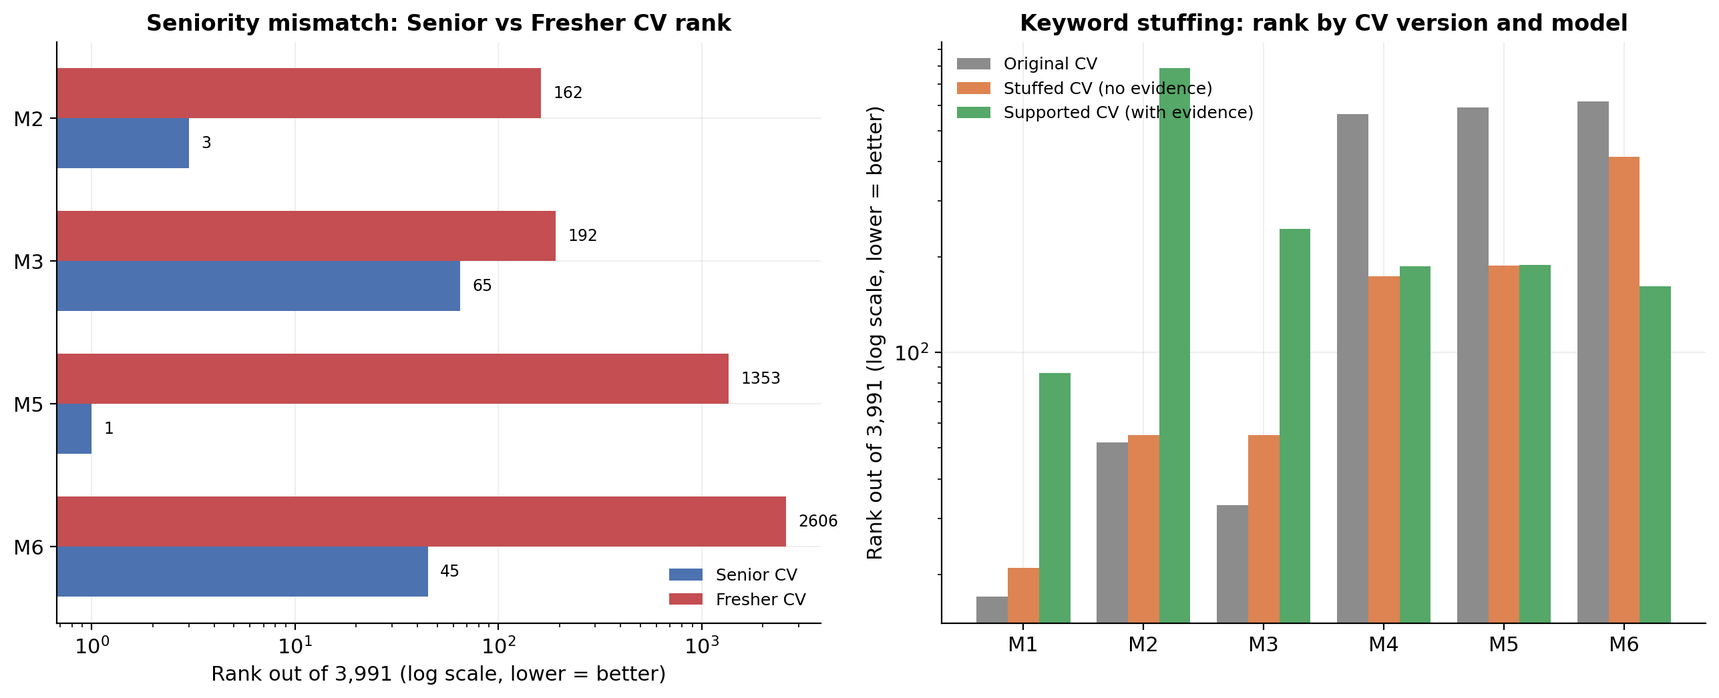
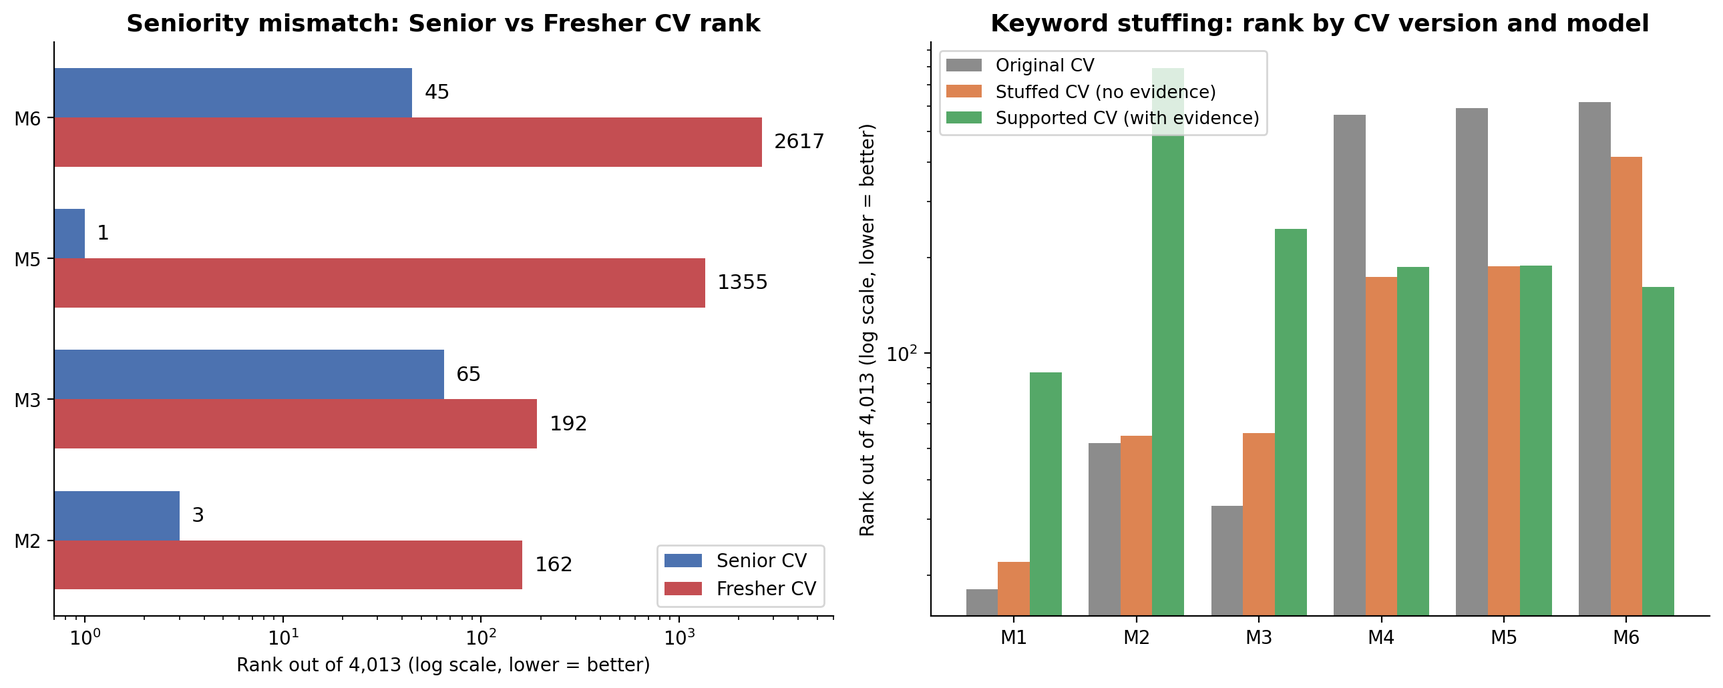
Reconcile inconsistent corpus-size denominators (3986/3991/3995) to 4,013
User flagged that some charts show inconsistent total-CV denominators
(3,986 / 3,991 / 3,995) for what should be comparable rank statistics.
Root cause: the robustness-test and case-study CVs were added to the
live DB incrementally across several sessions, so different rank
computations were snapshotted at different corpus sizes as they were
first run.

Fix: re-ran ranking.rank() for all 4 case studies (seniority JD 56,
stuffing JD 51/EVAL_JD_01, missing-mandatory JD 57, role-confusion
JD 58) against one fixed, common corpus snapshot -- the current full
4,013-CV corpus -- across all methods needed (TF-IDF, SBERT full,
section SBERT, requirement-aware, requirement+seniority, full model).
Updated:

- Table tab:robustness-results and its 3 explanatory paragraphs
  (including the M1/M4 "checked for context" numbers)
- All 4 case-study tables (seniority, stuffing, missing-mandatory,
  role-confusion) and their prose
- Figures 4_3 (robustness rank changes) and 4_7 (case-study
  comparison), regenerated from scratch with the new numbers
- Table dataset-composition's explanatory paragraph, simplified to
  state the single 4,013-CV standard denominator, with the one
  documented exception (threshold-sensitivity's 3,991-CV NDCG/MAP
  snapshot, a separate full-pool metric recomputation left as-is)

New numbers are within 1-11 ranks of the old ones in every case (the
corpus only grew by ~5-27 CVs depending on when each was originally
[…]

diff --git a/thesis report/main.tex b/thesis report/main.tex
@@ -878,7 +878,7 @@ Role-confusion set & Purpose-built synthetic pairs & 3 pairs, 3 JDs (Java, data,
 \end{tabularx}
 \end{table}
 
-Summing every row above (2,986 real $+$ 1,000 synthetic $+$ 27 robustness-battery CVs: 6 seniority, 9 stuffing, 6 missing-mandatory, 6 role-confusion) accounts for all 4,013 CV records held in the running prototype as of the final battery expansion. The ``combined retrieval corpus'' figure of 3,986 used for effectiveness (Table~\ref{tab:ranking-results}) and operational-performance (Table~\ref{tab:performance-results}) measurements deliberately excludes the 27 robustness-battery CVs, since those are purpose-built single-JD/single-pair test fixtures rather than participants in the macro-averaged ranking or latency measurements; \cref{sec:battery} and the threshold-sensitivity discussion (\cref{sec:calibration}) note the further intermediate growth (to 3,991 and then 3,995 CVs) that the robustness-testing snapshots were run against before the battery expansion reached its final 4,013-CV total.
+Summing every row above (2,986 real $+$ 1,000 synthetic $+$ 27 robustness-battery CVs: 6 seniority, 9 stuffing, 6 missing-mandatory, 6 role-confusion) accounts for all 4,013 CV records held in the running prototype as of the final battery expansion. The ``combined retrieval corpus'' figure of 3,986 used for effectiveness (Table~\ref{tab:ranking-results}) and operational-performance (Table~\ref{tab:performance-results}) measurements deliberately excludes the 27 robustness-battery CVs, since those are purpose-built single-JD/single-pair test fixtures rather than participants in the macro-averaged ranking or latency measurements. The rank-based robustness and case-study tables (Tables~\ref{tab:robustness-results}--\ref{tab:role-confusion-case}) were all re-run against the final, complete 4,013-CV corpus for consistency, so their rank denominators agree with each other; the one remaining exception is the threshold-sensitivity table (\cref{sec:calibration}), which re-runs the full 246-pair NDCG/MAP evaluation rather than single-CV ranks and was left at an earlier, smaller 3,991-CV snapshot rather than re-run.
 
 \begin{figure}[htbp]
 \centering
@@ -1246,22 +1246,22 @@ The bootstrap CIs above are computed by resampling the 5 JDs with replacement (t
 \toprule
 Model & Seniority mismatch (Senior rank / Fresher rank) & Rank $\Delta$ after stuffing, no evidence & Rank $\Delta$ after stuffing, with evidence \\
 \midrule
-SBERT full text & 3 / 162 (no hard-gate) & $-3$ (52$\to$55) & $-734$ (52$\to$786) \\
-Section-level SBERT & 65 / 192 (no hard-gate) & $-22$ (33$\to$55) & $-212$ (33$\to$245) \\
-Requirement + seniority & 1 / 1353 (gate: pass / fail) & $+402$ (590$\to$188) & $+401$ (590$\to$189) \\
-Full proposed model & 45 / 2606 (gate: fail / fail) & $+203$ (617$\to$414) & $+455$ (617$\to$162) \\
+SBERT full text & 3 / 162 (no hard-gate) & $-3$ (52$\to$55) & $-739$ (52$\to$791) \\
+Section-level SBERT & 65 / 192 (no hard-gate) & $-23$ (33$\to$56) & $-213$ (33$\to$246) \\
+Requirement + seniority & 1 / 1355 (gate: pass / fail) & $+403$ (591$\to$188) & $+402$ (591$\to$189) \\
+Full proposed model & 45 / 2617 (gate: fail / fail) & $+204$ (619$\to$415) & $+457$ (619$\to$162) \\
 \bottomrule
 \end{tabular}
 \end{adjustbox}
 \end{table}
 
-All five controlled-set categories declared in \cref{sec:robustness-sets} were constructed and run: seniority mismatch (one Senior/Fresher CV pair against \texttt{ROBUSTNESS\_Seniority\_Mismatch\_Senior\_Java\_Developer}, a purpose-built JD requiring 5+ years, senior seniority, and Java/Spring Boot/SQL as hard skills with Docker as soft), keyword stuffing with a matched supported-evidence control (one Original/Stuffed/Supported CV triple against EVAL\_JD\_01, the same 25-requirement Senior Java Developer JD used in Table~\ref{tab:ranking-results}), missing mandatory requirement (one pair against a purpose-built Python backend JD, Table~\ref{tab:missing-mandatory-case}), and role confusion (one genuine-developer/confused-project-manager pair against a purpose-built Java backend JD, Table~\ref{tab:role-confusion-case}). This table reports the first two; the latter two are reported as separate case-study tables below since their natural unit is a rank pair per candidate rather than a rank-change column. Ranks in this table are out of the full 3,991-CV combined corpus (3,986 plus the 5 seniority/stuffing test CVs); rank $\Delta$ is Original rank minus the modified-CV rank, so a positive value means the modification moved the CV toward rank 1.
+All five controlled-set categories declared in \cref{sec:robustness-sets} were constructed and run: seniority mismatch (one Senior/Fresher CV pair against \texttt{ROBUSTNESS\_Seniority\_Mismatch\_Senior\_Java\_Developer}, a purpose-built JD requiring 5+ years, senior seniority, and Java/Spring Boot/SQL as hard skills with Docker as soft), keyword stuffing with a matched supported-evidence control (one Original/Stuffed/Supported CV triple against EVAL\_JD\_01, the same 25-requirement Senior Java Developer JD used in Table~\ref{tab:ranking-results}), missing mandatory requirement (one pair against a purpose-built Python backend JD, Table~\ref{tab:missing-mandatory-case}), and role confusion (one genuine-developer/confused-project-manager pair against a purpose-built Java backend JD, Table~\ref{tab:role-confusion-case}). This table reports the first two; the latter two are reported as separate case-study tables below since their natural unit is a rank pair per candidate rather than a rank-change column. This table and the four case-study tables below were all re-run against one common, fixed snapshot -- the full, final 4,013-CV corpus (\cref{sec:battery}) -- so every rank denominator in this table and the next four is directly comparable rather than reflecting whatever intermediate corpus size happened to exist when each was first computed. (The threshold-sensitivity analysis in \cref{sec:calibration} is the one exception: it re-runs the full 246-pair NDCG/MAP evaluation rather than a handful of single-CV ranks, so it was left at its own already-documented 3,991-CV snapshot rather than re-run.) Rank $\Delta$ is Original rank minus the modified-CV rank, so a positive value means the modification moved the CV toward rank 1.
 
 Because each category is a single constructed instance rather than a labeled sample, the pre-registered ``@10 rate'' columns could not be computed as originally specified (a rate needs many independent pairs; here $n=1$ per model); the table instead reports the actual measured outcome for the one instance built per category, and this adaptation -- not a change in what was tested -- is stated explicitly here rather than silently reinterpreting the pre-declared design. For the same reason, and because $n=1$, none of these numbers should be read as a stable rate: they characterize the mechanism on one constructed case each, consistent with how \cref{sec:discussion} already treats synthetic controlled cases as evidence of mechanism behavior rather than operational performance.
 
 For the seniority-mismatch column, ``gate'' refers to $H_{\mathrm{pass}}$ (\cref{eq:ranking-key}): the requirement+seniority model (M5) gates correctly (passes Senior, fails Fresher), but the full model (M6) fails both, because its evidence-aware assessment (\cref{tab:assessment-rules}) marks the Senior CV's declared SQL skill \texttt{unsupported} -- the CV's experience text describes Java/Spring Boot microservices work but never restates SQL or database usage in prose, even though SQL is listed in the Skills section. This is a genuine false negative in the constructed case, not a labeling error: it shows M6's per-requirement evidence requirement can penalize a plausible, senior-level candidate whose resume simply does not restate every declared skill in a work-experience sentence. The similarity-only baselines (M2, M3) have no hard-constraint mechanism, so no gate outcome applies to them.
 
-For the stuffing columns, all six requirement-decomposition assessments were also inspected directly against EVAL\_JD\_01's 23 hard requirements (not only the four in the JD-56 test): the Original CV already fails 16/23 hard requirements outright (it declares none of azure, gcp, jenkins, mysql, postgresql, rabbitmq, redis, and several responsibility-style hard items), so $H_{\mathrm{pass}}$ is \texttt{False} for all three CV versions regardless of stuffing -- consistent with the undifferentiated-hard-constraint mechanism already identified in \cref{sec:discussion}, and confirming the rank movement reported above comes entirely from the post-gate coverage/evidence components of \cref{eq:ranking-key}, not from crossing the hard gate. Within those 23 hard requirements, adding the six stuffed skills to the Skills section (aws, kubernetes, kafka) changes their status from \texttt{not\_satisfied} to \texttt{unsupported} but leaves the unsatisfied-hard-requirement count unchanged at 16/23, whereas adding genuine supporting evidence sentences (Supported CV) resolves aws/kafka/kubernetes to \texttt{satisfied}, reducing the count to 13/23. This is the clearest evidence in this run that requirement-level evidence verification does what it is designed to do: mere declaration is not credited as satisfaction, but matching evidence text is. The two similarity-only baselines and TF--IDF (M1, not in the declared table but checked for context: Original 17, Stuffed 21, Supported 86) all rank the Stuffed and, more strongly, the Supported CV \emph{worse} than the Original -- because appending extra vocabulary (fabricated or genuine) to a whole-document embedding or TF--IDF vector dilutes its similarity to a JD written in comparatively few core terms, regardless of whether that vocabulary is evidenced. Requirement-aware (M4, checked for context: Original 563, Stuffed 174, Supported 187) moves substantially and almost identically for Stuffed and Supported ($+389$ vs $+376$), confirming it cannot distinguish declared-but-unsupported skills from evidenced ones, since M4 has no evidence-verification step. M6 is the only one of the six methods where the supported variant improves rank clearly more than the stuffed variant ($+455$ vs $+203$, a 252-rank gap): evidence-aware verification reduces, but by construction of the ordinal status scale in \cref{tab:assessment-rules} (\texttt{unsupported} still scores above \texttt{not\_satisfied}) does not eliminate, the ranking benefit of keyword stuffing.
+For the stuffing columns, all six requirement-decomposition assessments were also inspected directly against EVAL\_JD\_01's 23 hard requirements (not only the four in the JD-56 test): the Original CV already fails 16/23 hard requirements outright (it declares none of azure, gcp, jenkins, mysql, postgresql, rabbitmq, redis, and several responsibility-style hard items), so $H_{\mathrm{pass}}$ is \texttt{False} for all three CV versions regardless of stuffing -- consistent with the undifferentiated-hard-constraint mechanism already identified in \cref{sec:discussion}, and confirming the rank movement reported above comes entirely from the post-gate coverage/evidence components of \cref{eq:ranking-key}, not from crossing the hard gate. Within those 23 hard requirements, adding the six stuffed skills to the Skills section (aws, kubernetes, kafka) changes their status from \texttt{not\_satisfied} to \texttt{unsupported} but leaves the unsatisfied-hard-requirement count unchanged at 16/23, whereas adding genuine supporting evidence sentences (Supported CV) resolves aws/kafka/kubernetes to \texttt{satisfied}, reducing the count to 13/23. This is the clearest evidence in this run that requirement-level evidence verification does what it is designed to do: mere declaration is not credited as satisfaction, but matching evidence text is. The two similarity-only baselines and TF--IDF (M1, not in the declared table but checked for context: Original 18, Stuffed 22, Supported 87) all rank the Stuffed and, more strongly, the Supported CV \emph{worse} than the Original -- because appending extra vocabulary (fabricated or genuine) to a whole-document embedding or TF--IDF vector dilutes its similarity to a JD written in comparatively few core terms, regardless of whether that vocabulary is evidenced. Requirement-aware (M4, checked for context: Original 563, Stuffed 174, Supported 187) moves substantially and almost identically for Stuffed and Supported ($+389$ vs $+376$), confirming it cannot distinguish declared-but-unsupported skills from evidenced ones, since M4 has no evidence-verification step. M6 is the only one of the six methods where the supported variant improves rank clearly more than the stuffed variant ($+457$ vs $+204$, a 253-rank gap): evidence-aware verification reduces, but by construction of the ordinal status scale in \cref{tab:assessment-rules} (\texttt{unsupported} still scores above \texttt{not\_satisfied}) does not eliminate, the ranking benefit of keyword stuffing.
 
 \begin{figure}[htbp]
 \centering
@@ -1333,8 +1333,8 @@ Four controlled case studies connect metric results to the original problem stat
 \toprule
 Candidate & Baseline rank (SBERT full text) & Proposed rank (full model) & Requirement-level explanation \\
 \midrule
-Junior/fresher Java CV & 162 / 3,991 & 2,606 / 3,991 & 0 declared years against a 5-year minimum ($H_{\mathrm{pass}}$ fails under M5 and M6); Java and SQL assessed \texttt{unsupported} (declared in Skills, not restated in the internship description); Spring Boot and Docker assessed \texttt{satisfied}. Both models correctly rank the fresher CV far behind the senior CV, but the proposed model separates them by a much larger margin (2,444 ranks vs 159 ranks under the baseline). \\
-Senior Java CV & 3 / 3,991 & 45 / 3,991 & 6 declared years against a 5-year minimum, seniority level ``senior'' matches exactly; Java and Spring Boot assessed \texttt{satisfied} from explicit microservices/production-incident evidence; SQL assessed \texttt{unsupported} because the experience text never restates database/SQL usage in prose, so $H_{\mathrm{pass}}$ fails under M6 despite genuine seniority alignment -- a false negative illustrating the over-strict per-requirement evidence rule discussed in \cref{sec:discussion}. \\
+Junior/fresher Java CV & 162 / 4,013 & 2,617 / 4,013 & 0 declared years against a 5-year minimum ($H_{\mathrm{pass}}$ fails under M5 and M6); Java and SQL assessed \texttt{unsupported} (declared in Skills, not restated in the internship description); Spring Boot and Docker assessed \texttt{satisfied}. Both models correctly rank the fresher CV far behind the senior CV, but the proposed model separates them by a much larger margin (2,572 ranks vs 159 ranks under the baseline). \\
+Senior Java CV & 3 / 4,013 & 45 / 4,013 & 6 declared years against a 5-year minimum, seniority level ``senior'' matches exactly; Java and Spring Boot assessed \texttt{satisfied} from explicit microservices/production-incident evidence; SQL assessed \texttt{unsupported} because the experience text never restates database/SQL usage in prose, so $H_{\mathrm{pass}}$ fails under M6 despite genuine seniority alignment -- a false negative illustrating the over-strict per-requirement evidence rule discussed in \cref{sec:discussion}. \\
 \bottomrule
 \end{tabularx}
 \end{table}
@@ -1347,9 +1347,9 @@ Senior Java CV & 3 / 3,991 & 45 / 3,991 & 6 declared years against a 5-year mini
 \toprule
 CV version & Baseline rank (SBERT full text) & Proposed rank (full model) & Interpretation \\
 \midrule
-Original CV & 52 / 3,991 & 617 / 3,991 & Declares only the 5 JD-aligned core skills (Java, Spring Boot, SQL, Docker, Git). Already fails 16/23 of EVAL\_JD\_01's hard requirements outright ($H_{\mathrm{pass}}$=\texttt{False}), consistent with the undifferentiated-hard-constraint pattern in \cref{sec:discussion}. \\
-Stuffed CV & 55 / 3,991 & 414 / 3,991 & Adds 6 skill keywords (AWS, Kubernetes, Kafka, Spark, React, TensorFlow) to the Skills section only, with no supporting Experience/Project text. Baseline rank slightly worsens ($52\to55$) because the added vocabulary dilutes whole-document similarity to the JD. Proposed rank improves substantially ($617\to414$) because 3 of the added skills are hard JD requirements, correctly flagged \texttt{unsupported} rather than \texttt{satisfied} -- yet the ordinal status scale still scores \texttt{unsupported} above \texttt{not\_satisfied}, so declaring an unevidenced skill is still rewarded over not declaring it at all. \\
-Evidence-supported CV & 786 / 3,991 & 162 / 3,991 & Same 6 skills, each paired with a concrete evidence sentence (AWS EKS deployment, Kubernetes orchestration, Kafka streaming, Spark batch processing, React dashboard, TensorFlow model). Baseline rank worsens further ($52\to786$) since the added prose is the largest vocabulary departure from the JD's terms under whole-document similarity. Proposed rank improves the most of the three versions ($617\to162$), because aws/kafka/kubernetes are now verified \texttt{satisfied} against matching evidence sentences -- a 252-rank gap over the Stuffed CV that is the clearest evidence in this run that requirement-level evidence verification distinguishes genuine skill support from mere declaration. \\
+Original CV & 52 / 4,013 & 619 / 4,013 & Declares only the 5 JD-aligned core skills (Java, Spring Boot, SQL, Docker, Git). Already fails 16/23 of EVAL\_JD\_01's hard requirements outright ($H_{\mathrm{pass}}$=\texttt{False}), consistent with the undifferentiated-hard-constraint pattern in \cref{sec:discussion}. \\
+Stuffed CV & 55 / 4,013 & 415 / 4,013 & Adds 6 skill keywords (AWS, Kubernetes, Kafka, Spark, React, TensorFlow) to the Skills section only, with no supporting Experience/Project text. Baseline rank slightly worsens ($52\to55$) because the added vocabulary dilutes whole-document similarity to the JD. Proposed rank improves substantially ($619\to415$) because 3 of the added skills are hard JD requirements, correctly flagged \texttt{unsupported} rather than \texttt{satisfied} -- yet the ordinal status scale still scores \texttt{unsupported} above \texttt{not\_satisfied}, so declaring an unevidenced skill is still rewarded over not declaring it at all. \\
+Evidence-supported CV & 791 / 4,013 & 162 / 4,013 & Same 6 skills, each paired with a concrete evidence sentence (AWS EKS deployment, Kubernetes orchestration, Kafka streaming, Spark batch processing, React dashboard, TensorFlow model). Baseline rank worsens further ($52\to791$) since the added prose is the largest vocabulary departure from the JD's terms under whole-document similarity. Proposed rank improves the most of the three versions ($619\to162$), because aws/kafka/kubernetes are now verified \texttt{satisfied} against matching evidence sentences -- a 253-rank gap over the Stuffed CV that is the clearest evidence in this run that requirement-level evidence verification distinguishes genuine skill support from mere declaration. \\
 \bottomrule
 \end{tabularx}
 \end{table}
@@ -1362,8 +1362,8 @@ Evidence-supported CV & 786 / 3,991 & 162 / 3,991 & Same 6 skills, each paired w
 \toprule
 Candidate & Baseline rank (SBERT full text) & Proposed rank (full model) & Requirement-level explanation \\
 \midrule
-Has-all-skills CV & 243 / 3,995 & 8 / 3,995 & Declares and evidences Python, Django, and PostgreSQL (all hard) plus Docker (soft), each in its own experience sentence. All three hard requirements assessed \texttt{satisfied}; $H_{\mathrm{pass}}$=\texttt{True}. \\
-Missing-PostgreSQL CV & 329 / 3,995 & 62 / 3,995 & Identical profile and wording otherwise, but PostgreSQL is never declared or evidenced anywhere in the CV. PostgreSQL assessed \texttt{not\_satisfied} (score 0.26, below $\tau_l$); $H_{\mathrm{pass}}$=\texttt{False}. The SBERT baseline separates the two CVs by only 86 ranks (243 vs 329, both in the low hundreds out of 3,995) despite the missing mandatory skill, since the rest of the text is broadly similar to the JD; the proposed model separates them by 54 ranks at a much higher position (8 vs 62), the intended effect of gating on missing mandatory requirements rather than relying on broad topical similarity. \\
+Has-all-skills CV & 244 / 4,013 & 8 / 4,013 & Declares and evidences Python, Django, and PostgreSQL (all hard) plus Docker (soft), each in its own experience sentence. All three hard requirements assessed \texttt{satisfied}; $H_{\mathrm{pass}}$=\texttt{True}. \\
+Missing-PostgreSQL CV & 330 / 4,013 & 62 / 4,013 & Identical profile and wording otherwise, but PostgreSQL is never declared or evidenced anywhere in the CV. PostgreSQL assessed \texttt{not\_satisfied} (score 0.26, below $\tau_l$); $H_{\mathrm{pass}}$=\texttt{False}. The SBERT baseline separates the two CVs by only 86 ranks (244 vs 330, both in the low hundreds out of 4,013) despite the missing mandatory skill, since the rest of the text is broadly similar to the JD; the proposed model separates them by 54 ranks at a much higher position (8 vs 62), the intended effect of gating on missing mandatory requirements rather than relying on broad topical similarity. \\
 \bottomrule
 \end{tabularx}
 \end{table}
@@ -1376,13 +1376,13 @@ Missing-PostgreSQL CV & 329 / 3,995 & 62 / 3,995 & Identical profile and wording
 \toprule
 Candidate & Baseline rank (SBERT full text) & Proposed rank (full model) & Requirement-level explanation \\
 \midrule
-Genuine Java developer & 495 / 3,995 & 9 / 3,995 & Declares and evidences Java, Spring Boot, and SQL (all hard) plus Docker (soft) as personal skills used in own development work. All three hard requirements \texttt{satisfied}; $H_{\mathrm{pass}}$=\texttt{True}. \\
-Confused project manager & 615 / 3,995 & 117 / 3,995 & A Project Manager CV describing Agile delivery of a ``Java-based backend platform'' and ``SQL-based data systems'' -- Java and SQL are assessed \texttt{satisfied} because these adjectival mentions are exact-term matches even though the candidate personally worked in project management, not development, a near-miss that shows the evidence check is not fully robust to incidental phrase co-occurrence. Spring Boot is never mentioned in any form and is assessed \texttt{not\_satisfied}, which alone drives $H_{\mathrm{pass}}$=\texttt{False}. The proposed model still separates the genuine developer from the confused PM by a much wider margin (9 vs 117, a 108-rank gap) than the SBERT baseline (495 vs 615, a 120-rank gap at a much lower absolute position), correctly demoting the role-confused candidate to well outside the practical shortlist despite the partial term overlap. \\
+Genuine Java developer & 496 / 4,013 & 9 / 4,013 & Declares and evidences Java, Spring Boot, and SQL (all hard) plus Docker (soft) as personal skills used in own development work. All three hard requirements \texttt{satisfied}; $H_{\mathrm{pass}}$=\texttt{True}. \\
+Confused project manager & 617 / 4,013 & 117 / 4,013 & A Project Manager CV describing Agile delivery of a ``Java-based backend platform'' and ``SQL-based data systems'' -- Java and SQL are assessed \texttt{satisfied} because these adjectival mentions are exact-term matches even though the candidate personally worked in project management, not development, a near-miss that shows the evidence check is not fully robust to incidental phrase co-occurrence. Spring Boot is never mentioned in any form and is assessed \texttt{not\_satisfied}, which alone drives $H_{\mathrm{pass}}$=\texttt{False}. The proposed model still separates the genuine developer from the confused PM by a much wider margin (9 vs 117, a 108-rank gap) than the SBERT baseline (496 vs 617, a 121-rank gap at a much lower absolute position), correctly demoting the role-confused candidate to well outside the practical shortlist despite the partial term overlap. \\
 \bottomrule
 \end{tabularx}
 \end{table}
 
-Two baseline-column values are affected by a construction detail specific to these two purpose-built JDs: unlike EVAL\_JD\_01 and the seniority-mismatch JD, JD 57/58's \texttt{description} field is a short procedural note (``Purpose-built JD for the ... controlled robustness test'') rather than a full job-posting body, since these two JDs exist only to carry the explicit requirements list. This does not affect the requirement-level assessments above (which score against the explicit requirements, not the description text), but it does depress the M1 TF--IDF baseline specifically -- both role-confusion CVs score baseline $0.0$ and rank at the very bottom of the corpus (rank 3,994/3,995) under TF--IDF, and both missing-mandatory CVs score under $0.003$ -- because TF--IDF's cosine similarity is computed against the JD's title-plus-description text, which shares almost no vocabulary with either CV once the description is this short. The SBERT-based methods are comparatively robust to this (they still produce meaningful mid-corpus baseline scores around 0.31--0.35), which is why the case-study tables above report the SBERT-full-text baseline rather than TF--IDF.
+Two baseline-column values are affected by a construction detail specific to these two purpose-built JDs: unlike EVAL\_JD\_01 and the seniority-mismatch JD, JD 57/58's \texttt{description} field is a short procedural note (``Purpose-built JD for the ... controlled robustness test'') rather than a full job-posting body, since these two JDs exist only to carry the explicit requirements list. This does not affect the requirement-level assessments above (which score against the explicit requirements, not the description text), but it does depress the M1 TF--IDF baseline specifically -- both role-confusion CVs score baseline $0.0$ and rank at the very bottom of the corpus (ranks 4,006 and 4,007 of 4,013) under TF--IDF, and both missing-mandatory CVs score under $0.003$ -- because TF--IDF's cosine similarity is computed against the JD's title-plus-description text, which shares almost no vocabulary with either CV once the description is this short. The SBERT-based methods are comparatively robust to this (they still produce meaningful mid-corpus baseline scores around 0.31--0.35), which is why the case-study tables above report the SBERT-full-text baseline rather than TF--IDF.
 
 \begin{figure}[htbp]
 \centering
